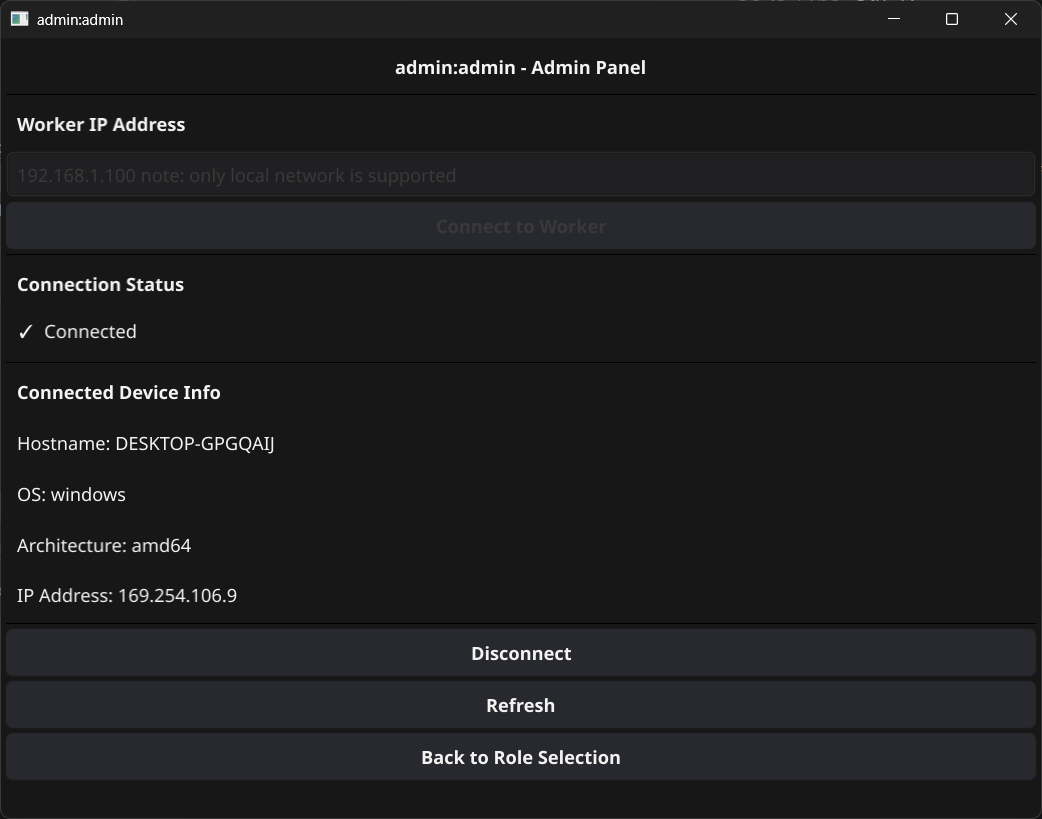
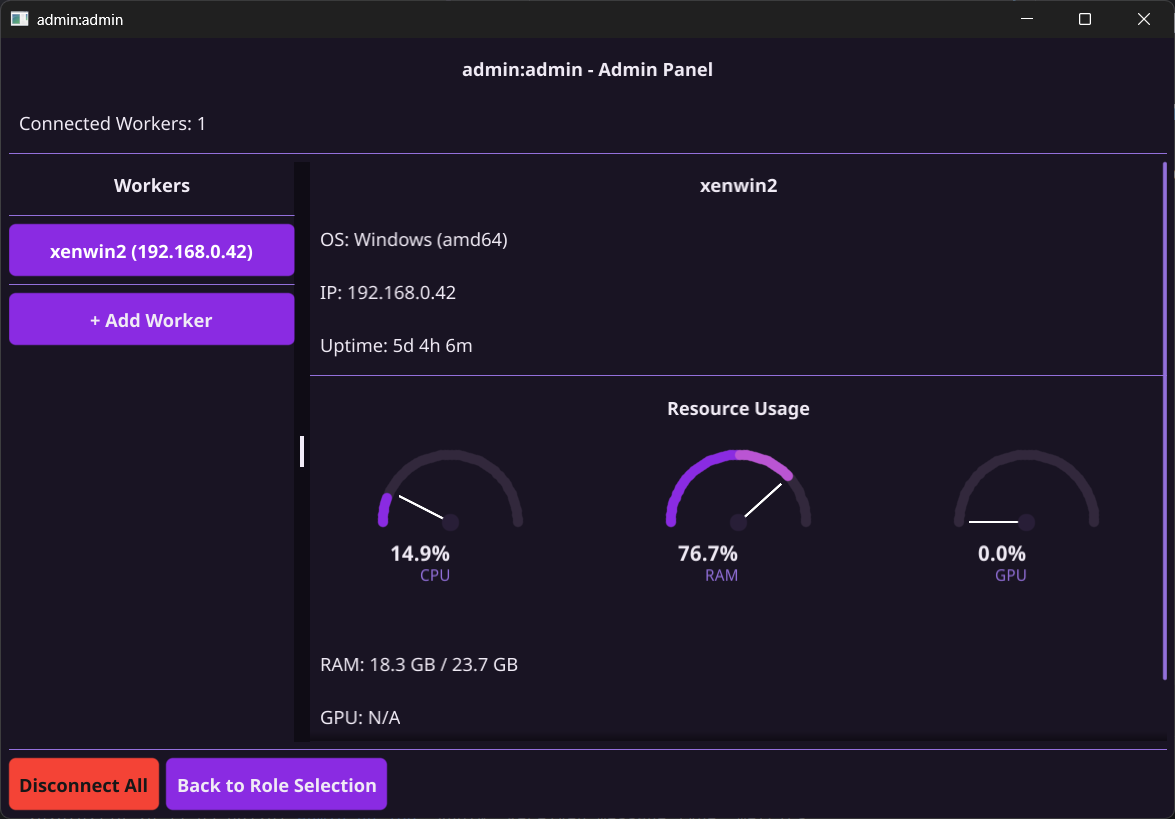
demo update to meet the latest release 1.0.2!

diff --git a/extra/demo.md b/extra/demo.md
@@ -1,19 +1,120 @@
-# breif functionality and UI demo 
-## (relevant to the development build 0.5)
-### windows bin now available on github
+# admin:admin - Demo & Functionality Guide
+## Release 1.0.2 | Windows & Linux
 
-![main.png](img/main.png)
-main menu - role selection
+---
 
-![admin-not-connected.png](img/admin-not-connected.png)
-admin menu - shows status and worker info
+## Overview
 
-![worker-not-connected.png](img/worker-not-connected.png)
-worker menu - shows status 
+**admin:admin** is a lightweight remote system monitoring tool that allows an Admin PC to monitor and manage multiple Worker PCs over a local network.
 
-![admin-connected.png](img/admin-connected.png)
-admin menu with a connected worker
+---
 
-![worker-connected.jpg](img/worker-connected.jpg)
+## Main Menu
 
-worker menu connected to an admin
+When you launch the application, you'll see the role selection screen:
+
+![Main Menu](img/main-menu.png)
+
+Choose your role:
+- **Admin PC** - Monitor and manage remote workers
+- **Worker PC** - Be monitored by an admin
+
+---
+
+## Worker Mode
+
+### Waiting for Connection
+
+After selecting "Worker PC", you'll see the waiting screen with your connection details:
+
+![Worker Not Connected](img/worker-not-connected.png)
+
+This screen shows:
+- Your local IP address (share this with the Admin)
+- The port number (9876)
+- SSH credentials (customizable)
+
+### Connected to Admin
+
+Once an Admin connects, the window becomes compact:
+
+![Worker Connected](img/worker-connected.png)
+
+---
+
+## Admin Mode
+
+### Connection Screen
+
+After selecting "Admin PC", enter the Worker's IP address to connect:
+
+![Admin Not Connected](img/admin-not-connected.png)
+
+### Monitoring Dashboard
+
+Once connected, you'll see real-time system metrics:
+
+![Admin Connected](img/admin-connected.png)
+
+The dashboard displays:
+- **CPU Usage** - Real-time CPU utilization (gauge)
+- **RAM Usage** - Memory usage with total/used (gauge)
+- **GPU Usage** - Graphics card utilization (gauge)
+- **System Info** - OS, hostname, IP address
+- **Uptime** - Time since last boot
+- **Worker List** - All connected workers (multi-worker support)
+
+---
+
+## SSH Terminal
+
+Click "Open SSH Terminal" to access the remote command line:
+
+![SSH Example](img/shh-example.png)
+
+Features:
+- Multi-tab support (multiple sessions)
+- Command history
+- Built-in commands: `help`, `clear`, `exit`
+- Purple-themed terminal UI
+
+Default credentials:
+- **Username:** `admin`
+- **Password:** `admin`
+
+---
+
+## Quick Start
+
+### On Worker PC:
+1. Run `admin-admin.exe`
+2. Click "Worker PC"
+3. Note the displayed IP address
+
+### On Admin PC:
+1. Run `admin-admin.exe`
+2. Click "Admin PC"
+3. Enter Worker's IP address
+4. Click "Connect"
+
+---
+
+## Network Requirements
+
+| Port | Protocol | Purpose |
+|------|----------|---------|
+| 9876 | TCP | Main communication |
+| 2222 | TCP | SSH remote access |
+
+Ensure these ports are open in your firewall.
+
+---
+
+## Downloads
+
+- **Windows:** Available on [GitHub Releases](https://github.com/your-repo/releases)
+- **Linux:** Build from source using WSL (see BUILD_WSL.md)
+
+---
+
+*admin:admin v1.0.2 - February 2026*
